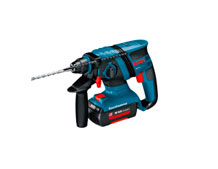
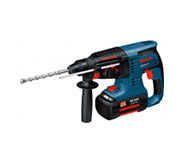
Исправляет графику

Changed region(s): [[0.1087, 0.2134, 0.8967, 0.7622]]

diff --git a/catalog.html b/catalog.html
@@ -80,7 +80,7 @@
       </div>
       <ul class="catalog-product-cards">
         <li class="product-card">
-          <img src="img/catalog-item-bfg-3000.jpg" alt="Картинка товара" class="product-img" width="218" height="169">
+          <img src="img/catalog-item-bfg-3000.jpg" alt="Картинка товара" class="product-img" width="184" height="164">
           <div class="product-hover">
             <a href="#" class="btn">Купить</a>
             <a href="#" class="btn">В закладки</a>
@@ -91,7 +91,7 @@
         </li>
 
         <li class="product-card">
-          <img src="img/catalog-item-bfg-6000.jpg" alt="Картинка товара" class="product-img" width="218" height="169">
+          <img src="img/catalog-item-bfg-6000.jpg" alt="Картинка товара" class="product-img" width="184" height="164">
           <div class="product-hover">
             <a href="#" class="btn">Купить</a>
             <a href="#" class="btn">В закладки</a>
@@ -102,7 +102,7 @@
         </li>
 
         <li class="product-card new-product">
-          <img src="img/catalog-item-bfg-2000.jpg" alt="Картинка товара" class="product-img" width="218" height="169">
+          <img src="img/catalog-item-bfg-2000.jpg" alt="Картинка товара" class="product-img" width="184" height="164">
           <div class="product-hover">
             <a href="#" class="btn">Купить</a>
             <a href="#" class="btn">В закладки</a>
@@ -112,7 +112,7 @@
         </li>
 
         <li class="product-card">
-          <img src="img/catalog-item-bfg-3000.jpg" alt="Картинка товара" class="product-img" width="218" height="169">
+          <img src="img/catalog-item-bfg-3000.jpg" alt="Картинка товара" class="product-img" width="184" height="164">
           <div class="product-hover">
             <a href="#" class="btn">Купить</a>
             <a href="#" class="btn">В закладки</a>
@@ -123,7 +123,7 @@
         </li>
 
         <li class="product-card new-product">
-          <img src="img/catalog-item-bfg-6000.jpg" alt="Картинка товара" class="product-img" width="218" height="169">
+          <img src="img/catalog-item-bfg-6000.jpg" alt="Картинка товара" class="product-img" width="184" height="164">
           <div class="product-hover">
             <a href="#" class="btn">Купить</a>
             <a href="#" class="btn">В закладки</a>
@@ -134,7 +134,7 @@
         </li>
 
         <li class="product-card">
-          <img src="img/catalog-item-bfg-2000.jpg" alt="Картинка товара" class="product-img" width="218" height="169">
+          <img src="img/catalog-item-bfg-2000.jpg" alt="Картинка товара" class="product-img" width="184" height="164">
           <div class="product-hover">
             <a href="#" class="btn">Купить</a>
             <a href="#" class="btn">В закладки</a>
@@ -144,7 +144,7 @@
         </li>
 
         <li class="product-card new-product">
-          <img src="img/catalog-item-bfg-3000.jpg" alt="Картинка товара" class="product-img" width="218" height="169">
+          <img src="img/catalog-item-bfg-3000.jpg" alt="Картинка товара" class="product-img" width="184" height="164">
           <div class="product-hover">
             <a href="#" class="btn">Купить</a>
             <a href="#" class="btn">В закладки</a>
@@ -155,7 +155,7 @@
         </li>
 
         <li class="product-card">
-          <img src="img/catalog-item-bfg-6000.jpg" alt="Картинка товара" class="product-img" width="218" height="169">
+          <img src="img/catalog-item-bfg-6000.jpg" alt="Картинка товара" class="product-img" width="184" height="164">
           <div class="product-hover">
             <a href="#" class="btn">Купить</a>
             <a href="#" class="btn">В закладки</a>
@@ -166,7 +166,7 @@
         </li>
 
         <li class="product-card">
-          <img src="img/catalog-item-bfg-2000.jpg" alt="Картинка товара" class="product-img" width="218" height="169">
+          <img src="img/catalog-item-bfg-2000.jpg" alt="Картинка товара" class="product-img" width="184" height="164">
           <div class="product-hover">
             <a href="#" class="btn">Купить</a>
             <a href="#" class="btn">В закладки</a>

diff --git a/index.html b/index.html
@@ -109,7 +109,7 @@
     </div>
     <ul class="product-cards">
       <li class="product-card">
-        <img src="img/catalog-item-bfg-9000.jpg" alt="Картинка товара" class="product-img" width="218" height="169">
+        <img src="img/catalog-item-bfg-9000.jpg" alt="Картинка товара" class="product-img" width="184" height="164">
         <div class="product-hover">
           <a href="#" class="btn">Купить</a>
           <a href="#" class="btn">В закладки</a>
@@ -120,7 +120,7 @@
       </li>
 
       <li class="product-card">
-        <img src="img/catalog-item-bfg-3000.jpg" alt="Картинка товара" class="product-img" width="218" height="169">
+        <img src="img/catalog-item-bfg-3000.jpg" alt="Картинка товара" class="product-img" width="184" height="164">
         <div class="product-hover">
           <a href="#" class="btn">Купить</a>
           <a href="#" class="btn">В закладки</a>
@@ -131,7 +131,7 @@
       </li>
 
       <li class="product-card">
-        <img src="img/catalog-item-bfg-6000.jpg" alt="Картинка товара" class="product-img" width="218" height="169">
+        <img src="img/catalog-item-bfg-6000.jpg" alt="Картинка товара" class="product-img" width="184" height="164">
         <div class="product-hover">
           <a href="#" class="btn">Купить</a>
           <a href="#" class="btn">В закладки</a>
@@ -142,7 +142,7 @@
       </li>
 
       <li class="product-card new-product">
-        <img src="img/catalog-item-bfg-2000.jpg" alt="Картинка товара" class="product-img" width="218" height="169">
+        <img src="img/catalog-item-bfg-2000.jpg" alt="Картинка товара" class="product-img" width="184" height="164">
         <div class="product-hover">
           <a href="#" class="btn">Купить</a>
           <a href="#" class="btn">В закладки</a>
